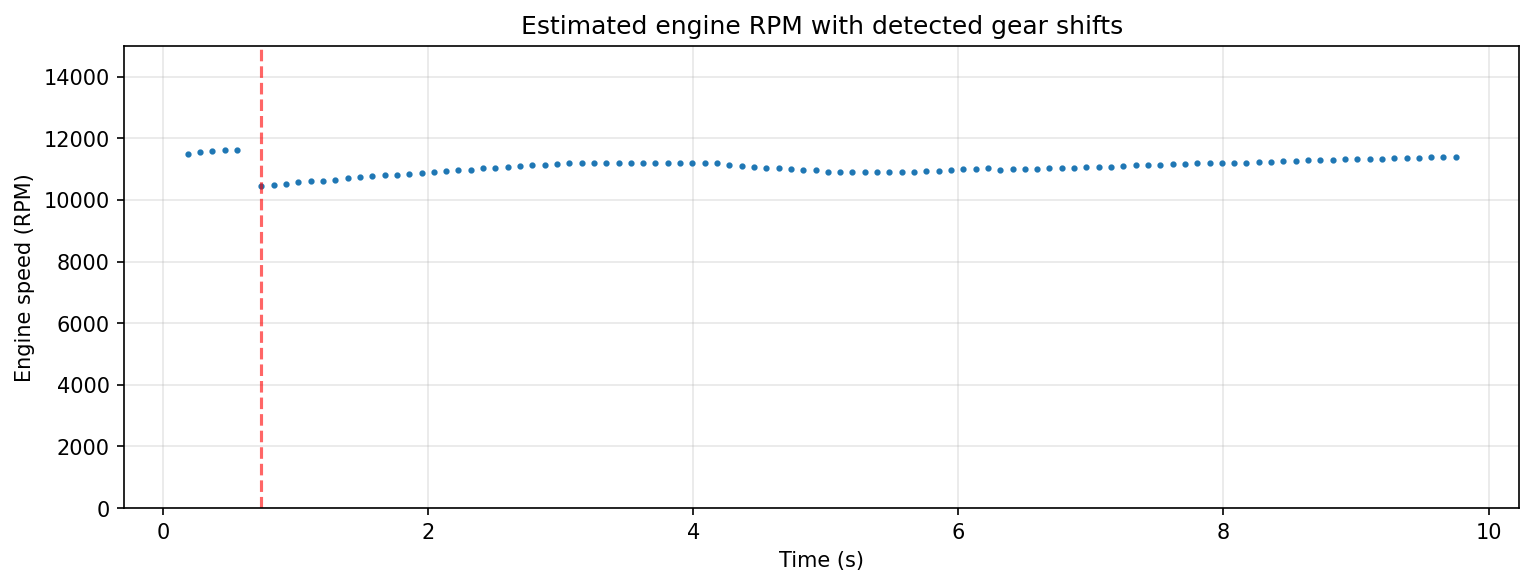
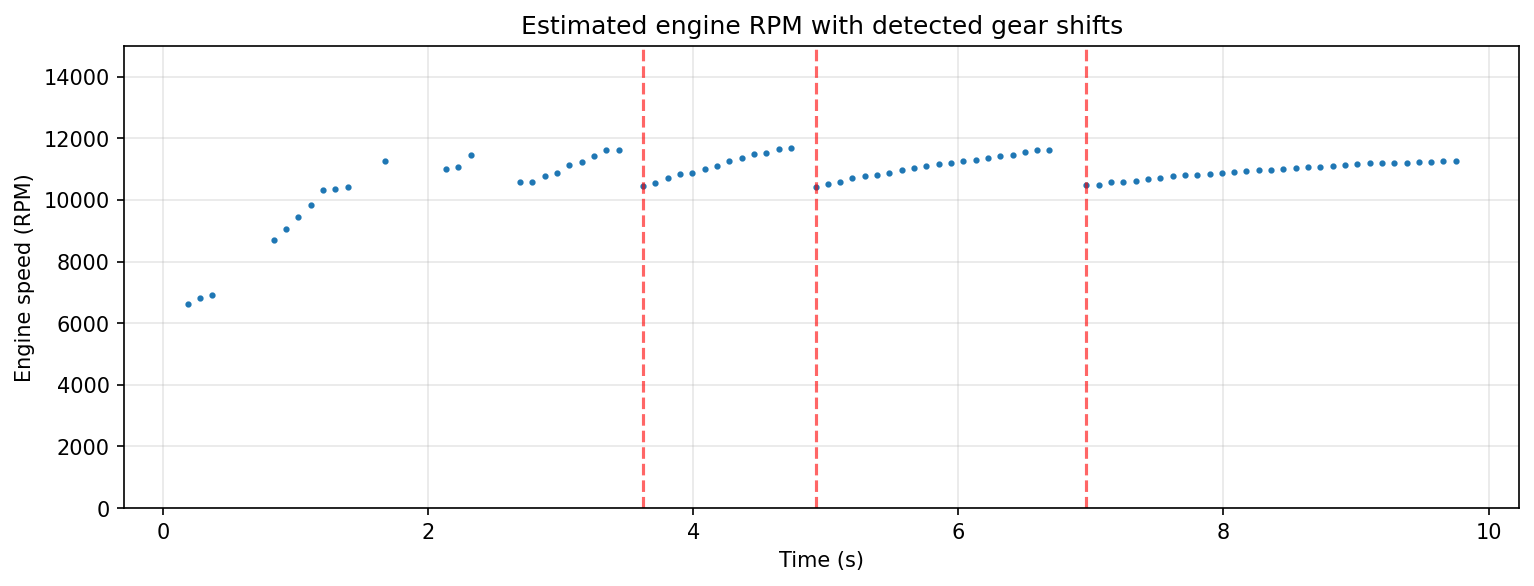
Use engine_rpm_estimate.py as the estimator script; refresh results
Claude-Session: https://claude.ai/code/session_01XuzzzQnRfCQBJfGLwKuzFS

Changed region(s): [[0.1532, 0.2457, 0.9498, 0.3379], [0.1226, 0.4915, 0.1532, 0.5222], [0.1226, 0.2457, 0.1532, 0.2765]]

diff --git a/engine_rpm_estimate.py b/engine_rpm_estimate.py
@@ -5,7 +5,7 @@ import matplotlib.pyplot as plt
 from scipy.io import wavfile
 
 WAV_FILE = "engine.wav"
-START_S = 600.0
+START_S = 700.0
 LENGTH_S = 10.0
 
 fs, x = wavfile.read(WAV_FILE)

diff --git a/README.md b/README.md
@@ -9,7 +9,7 @@ For a four-stroke V6, the engine fires three times per revolution, so the main s
 ## What the code does
 
 - `gen_synthetic.py` makes a 24 s synthetic engine sound with a known RPM curve (including shifts and noise), so the method can be checked against a known answer. Outputs: `synthetic_engine.wav`, `truth_rpm.csv`, `rpm_truth.png`.
-- `estimate_rpm.py` loads a clip, computes a spectrogram (Hann window, 16384 samples, 75% overlap), and tries three estimators in turn:
+- `engine_rpm_estimate.py` loads a clip, computes a spectrogram (Hann window, 16384 samples, 75% overlap), and tries three estimators in turn:
   1. the loudest frequency (naive, easily fooled by harmonics),
   2. the loudest frequency inside a 40 to 125 Hz band,
   3. a harmonic-spacing score that compares energy on and between harmonic lines (the one used for the result).
@@ -27,7 +27,7 @@ python -m pip install numpy scipy matplotlib
 python gen_synthetic.py
 ```
 
-To use real audio, extract it from your own video with ffmpeg and set `WAV_FILE`, `START_S` and `LENGTH_S` at the top of `estimate_rpm.py`:
+To use real audio, extract it from your own video with ffmpeg and set `WAV_FILE`, `START_S` and `LENGTH_S` at the top of `engine_rpm_estimate.py`:
 
 ```
 ffmpeg -i onboard.mp4 -vn -ac 1 -ar 44100 engine.wav
@@ -37,5 +37,5 @@ The source video and extracted audio are not included in this repository.
 
 ## Next steps
 
-- Run `estimate_rpm.py` on `synthetic_engine.wav` and compare against `truth_rpm.csv`.
+- Run `engine_rpm_estimate.py` on `synthetic_engine.wav` and compare against `truth_rpm.csv`.
 - Check the flagged shifts on real audio by ear in Audacity.
